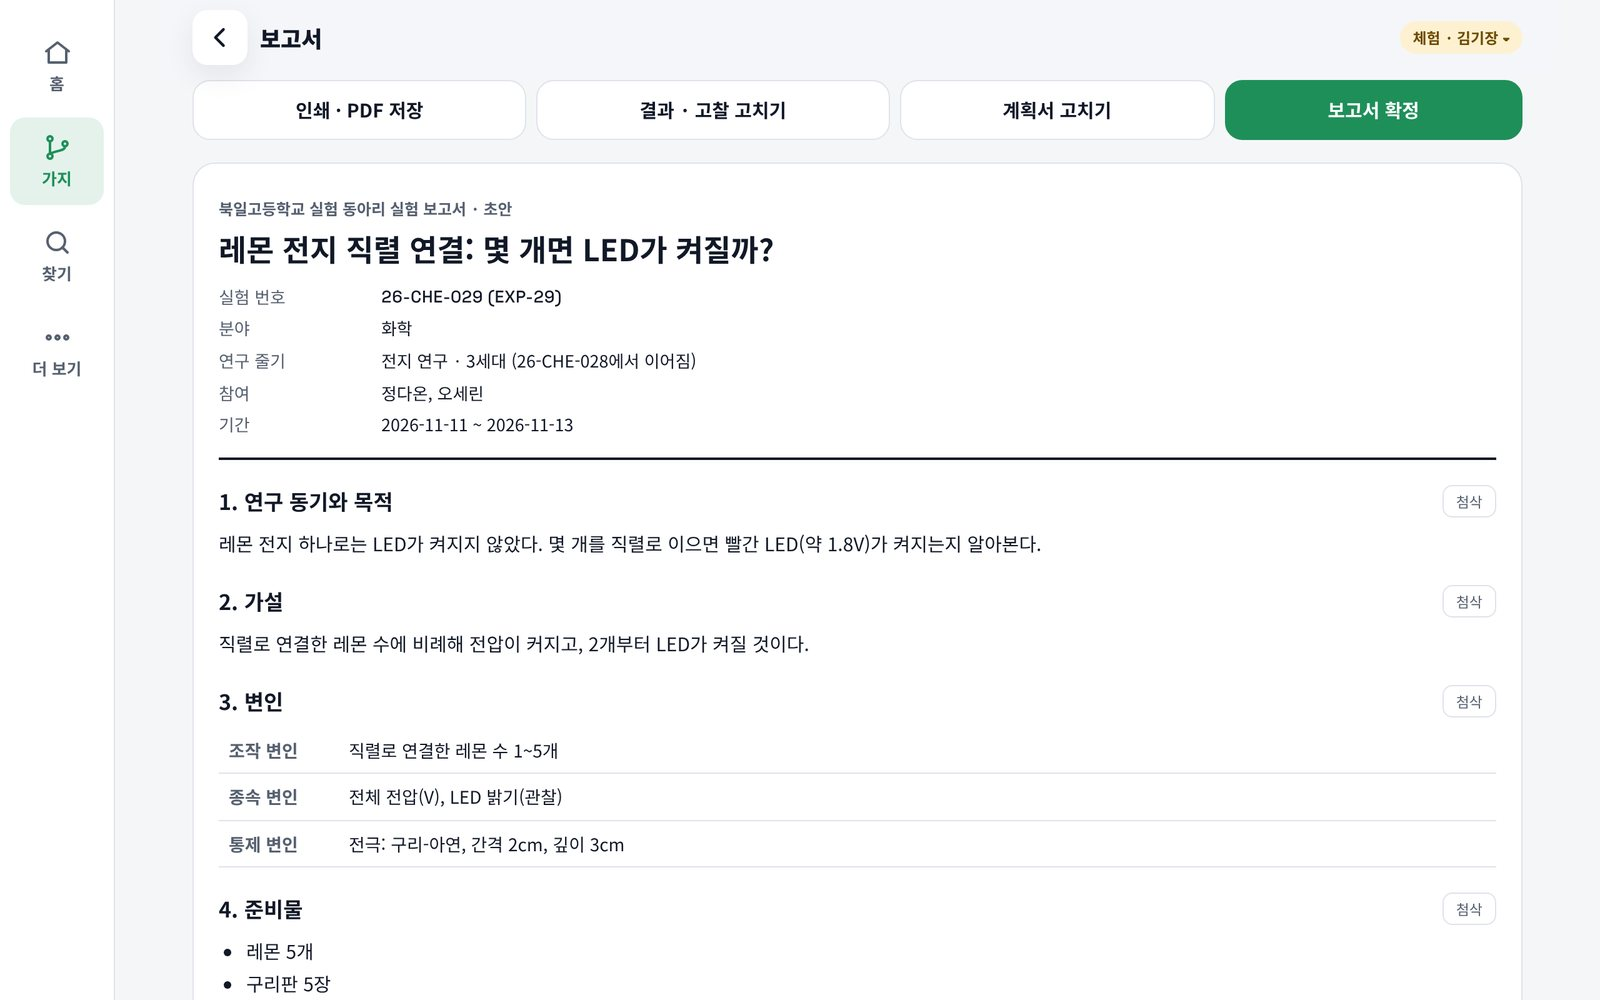
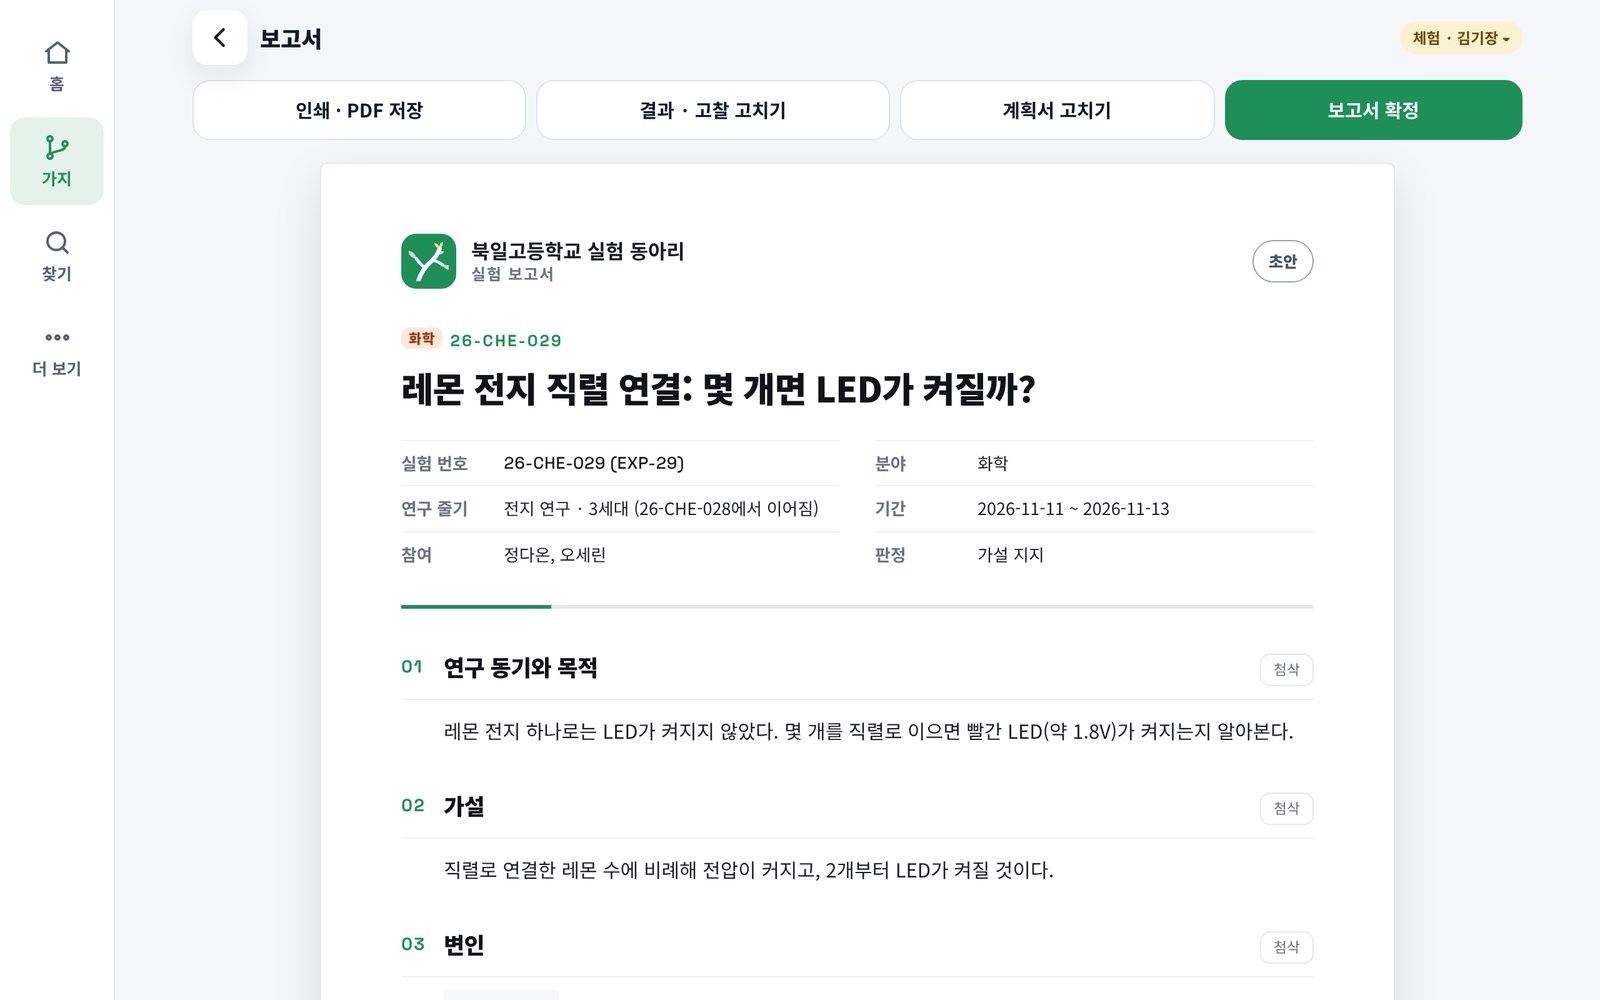
가지: 전체 가지 · 3D 전체 지도 · 명예의 전당 · 새 보고서 양식
Claude-Session: https://claude.ai/code/session_01ShCSMFwDxhqcMjTsEDc35E

diff --git a/public/apps/gaji/index.html b/public/apps/gaji/index.html
@@ -382,8 +382,8 @@ h1,h2,h3,.hero h1,.sec-head h2,.about h2,.process h2,.reeltxt h2,.contact h2,.bo
      
      
      <h4>★ 대표 기능</h4>
-     <div class="flag"><div><em>01</em><b>실험의 가지(계보)</b><span>실험을 열면 이 실험이 어디서 시작해 어디로 이어졌는지 세로 가지로 보입니다. 같은 주제의 실험은 연구 줄기로 묶여 몇 세대에 걸친 연구가 한 카드에 모입니다.</span></div><div><em>02</em><b>계획서에서 보고서까지 한 줄기</b><span>계획서 → 교차 검토 → 선생님 승인 → 준비 → 실험 → 결과 기록 → 보고서 → 다음 실험. 계획서 없이는 검토를 요청할 수 없고, 결과 · 결론 없이는 기록 완료가 되지 않습니다.</span></div><div><em>03</em><b>측정값을 넣으면 그래프와 보고서</b><span>측정 방식 5가지(조건별 반복 · 시간에 따른 변화 · 두 값의 관계 · 자유 표 · 관찰 기록)에 맞춰 평균 · 표준편차 막대, 꺾은선, 산점도 · 추세선 · R²가 저절로 그려지고, 모든 기록이 보고서 한 편으로 묶여 인쇄 · PDF로 나옵니다.</span></div><div><em>04</em><b>교차 검토와 선생님 승인</b><span>다른 팀 부원이 계획서를 읽고 승인하거나 고칠 곳을 첨삭으로 남깁니다. 몇 명이 승인할지, 지도 선생님 최종 승인이 필요한지는 동아리마다 정합니다. 함께하는 사람은 승인할 수 없습니다.</span></div><div><em>05</em><b>기록은 동아리 드라이브에만</b><span>실험 데이터는 동아리 구글 드라이브의 시트와 폴더에만 저장되어 제작자도 볼 수 없습니다. 바뀐 것이 있으면 일주일에 한 번 저절로 백업하고, 실수하면 백업에서 되살립니다.</span></div></div>
-     <h4>▣ 미리보기</h4><div class="gal wide "><figure><a href="/gallery/gaji-lines.jpg" target="_blank" rel="noopener"><img src="/gallery/gaji-lines.jpg" alt="가지 연구 줄기 — 전지 연구 15개 실험이 5세대에 걸쳐 가지를 친 모습 (점선은 아직 안 한 실험)" loading="lazy"></a><figcaption>연구 줄기 — 전지 연구 15개 실험이 5세대에 걸쳐 가지를 친 모습 (점선은 아직 안 한 실험)</figcaption></figure><figure><a href="/gallery/gaji-item.jpg" target="_blank" rel="noopener"><img src="/gallery/gaji-item.jpg" alt="가지 실험 상세 — 계획 · 검토 · 준비 · 기록 · 보고서 단계와 이 실험의 가지" loading="lazy"></a><figcaption>실험 상세 — 계획 · 검토 · 준비 · 기록 · 보고서 단계와 이 실험의 가지</figcaption></figure><figure><a href="/gallery/gaji-report.jpg" target="_blank" rel="noopener"><img src="/gallery/gaji-report.jpg" alt="가지 자동 보고서 — 동기와 목적, 가설, 변인, 준비물이 보고서 한 편으로 (인쇄 · PDF 저장)" loading="lazy"></a><figcaption>자동 보고서 — 동기와 목적, 가설, 변인, 준비물이 보고서 한 편으로 (인쇄 · PDF 저장)</figcaption></figure></div>
+     <div class="flag"><div><em>01</em><b>실험의 가지(계보)와 전체 가지</b><span>실험을 열면 이 실험이 어디서 시작해 어디로 이어졌는지 세로 가지로 보입니다. '전체 가지'는 달을 가로로 놓고 연구 줄기마다 실험이 날짜 자리에서 가지를 치는 타임라인으로, 동아리 연구 전체를 끌어서 훑어봅니다.</span></div><div><em>02</em><b>3D 전체 지도</b><span>동아리 연구 전체를 분야마다 별무리처럼 모인 3D 지도로 봅니다. 끌어서 돌리고 확대하며, 별을 한 번 누르면 요약, 두 번 누르면 상세로 들어갑니다. 발표 때 쓰기 좋습니다.</span></div><div><em>03</em><b>명예의 전당</b><span>쌓인 기록에서 가장 많이 가지를 뻗은 실험, 가장 긴 가지, 최장기 실험, 실패가 낳은 발견, 가장 뜨거운 토론, 연구왕을 저절로 뽑아 홈에 보여 줍니다.</span></div><div><em>04</em><b>계획서에서 보고서까지 한 줄기</b><span>계획서 → 교차 검토 → 선생님 승인 → 준비 → 실험 → 결과 기록 → 보고서 → 다음 실험. 계획서 없이는 검토를 요청할 수 없고, 결과 · 결론 없이는 기록 완료가 되지 않습니다.</span></div><div><em>05</em><b>측정값을 넣으면 그래프와 보고서</b><span>측정 방식 5가지(조건별 반복 · 시간에 따른 변화 · 두 값의 관계 · 자유 표 · 관찰 기록)에 맞춰 평균 · 표준편차 막대, 꺾은선, 산점도 · 추세선 · R²가 저절로 그려지고, 모든 기록이 보고서 한 편으로 묶여 인쇄 · PDF로 나옵니다.</span></div><div><em>06</em><b>교차 검토와 선생님 승인</b><span>다른 팀 부원이 계획서를 읽고 승인하거나 고칠 곳을 첨삭으로 남깁니다. 몇 명이 승인할지, 지도 선생님 최종 승인이 필요한지는 동아리마다 정합니다. 함께하는 사람은 승인할 수 없습니다.</span></div><div><em>07</em><b>기록은 동아리 드라이브에만</b><span>실험 데이터는 동아리 구글 드라이브의 시트와 폴더에만 저장되어 제작자도 볼 수 없습니다. 바뀐 것이 있으면 일주일에 한 번 저절로 백업하고, 실수하면 백업에서 되살립니다.</span></div></div>
+     <h4>▣ 미리보기</h4><div class="gal wide "><figure><a href="/gallery/gaji-all.jpg" target="_blank" rel="noopener"><img src="/gallery/gaji-all.jpg" alt="가지 전체 가지 — 달을 가로로 놓은 타임라인에서 연구 줄기마다 실험이 가지를 칩니다 (빨간 선은 오늘, 점선은 아직 안 한 실험)" loading="lazy"></a><figcaption>전체 가지 — 달을 가로로 놓은 타임라인에서 연구 줄기마다 실험이 가지를 칩니다 (빨간 선은 오늘, 점선은 아직 안 한 실험)</figcaption></figure><figure><a href="/gallery/gaji-map3d.jpg" target="_blank" rel="noopener"><img src="/gallery/gaji-map3d.jpg" alt="가지 3D 전체 지도 — 분야마다 별무리처럼 모인 동아리 연구 전체. 끌어서 돌리고 확대합니다" loading="lazy"></a><figcaption>3D 전체 지도 — 분야마다 별무리처럼 모인 동아리 연구 전체. 끌어서 돌리고 확대합니다</figcaption></figure><figure><a href="/gallery/gaji-hall.jpg" target="_blank" rel="noopener"><img src="/gallery/gaji-hall.jpg" alt="가지 명예의 전당 — 가장 많이 가지를 뻗은 실험 · 가장 긴 가지 · 최장기 실험 · 실패가 낳은 발견을 기록에서 저절로 뽑습니다" loading="lazy"></a><figcaption>명예의 전당 — 가장 많이 가지를 뻗은 실험 · 가장 긴 가지 · 최장기 실험 · 실패가 낳은 발견을 기록에서 저절로 뽑습니다</figcaption></figure><figure><a href="/gallery/gaji-lines.jpg" target="_blank" rel="noopener"><img src="/gallery/gaji-lines.jpg" alt="가지 연구 줄기 — 전지 연구 15개 실험이 5세대에 걸쳐 가지를 친 모습 (점선은 아직 안 한 실험)" loading="lazy"></a><figcaption>연구 줄기 — 전지 연구 15개 실험이 5세대에 걸쳐 가지를 친 모습 (점선은 아직 안 한 실험)</figcaption></figure><figure><a href="/gallery/gaji-item.jpg" target="_blank" rel="noopener"><img src="/gallery/gaji-item.jpg" alt="가지 실험 상세 — 계획 · 검토 · 준비 · 기록 · 보고서 단계와 이 실험의 가지" loading="lazy"></a><figcaption>실험 상세 — 계획 · 검토 · 준비 · 기록 · 보고서 단계와 이 실험의 가지</figcaption></figure><figure><a href="/gallery/gaji-report.jpg" target="_blank" rel="noopener"><img src="/gallery/gaji-report.jpg" alt="가지 자동 보고서 — 동아리 로고와 분야 뱃지, 번호 붙은 항목마다 첨삭. A4로 인쇄 · PDF 저장" loading="lazy"></a><figcaption>자동 보고서 — 동아리 로고와 분야 뱃지, 번호 붙은 항목마다 첨삭. A4로 인쇄 · PDF 저장</figcaption></figure></div>
      <h4>◆ 처음부터 끝까지, 빠짐없는 구성</h4>
      <div class="stages"><details class="stg" open>
        <summary><i>1</i><div><b>계획과 검토</b><span>실험을 시작하기 전에</span></div><small>5</small></summary>
@@ -393,7 +393,7 @@ h1,h2,h3,.hero h1,.sec-head h2,.about h2,.process h2,.reeltxt h2,.contact h2,.bo
        <div class="feats"><div class="feat"><b>준비 점검</b><span>준비물 · 실험 장소와 시간 · 안전 장비 · 역할 나누기 · 선생님께 알리기를 하나씩 체크합니다.</span></div><div class="feat"><b>진행 도우미</b><span>실험 단계마다 체크하고 메모와 사진을 남깁니다.</span></div><div class="feat"><b>내가 할 일</b><span>홈에 지금 챙길 실험과 검토 요청, 동아리가 챙길 것이 모입니다.</span></div></div>
      </details><details class="stg" >
        <summary><i>3</i><div><b>결과와 보고서</b><span>기록이 보고서가 되기까지</span></div><small>4</small></summary>
-       <div class="feats"><div class="feat"><b>측정 방식 5가지</b><span>조건별 반복, 시간에 따른 변화, 두 값의 관계, 자유 표, 관찰 기록 중에서 고르면 맞는 표와 그래프가 나옵니다.</span></div><div class="feat"><b>결론과 다음 가지</b><span>가설 지지 · 기각 · 추가 실험 필요로 결론을 내고, 결과에서 나온 질문을 새 가지로 잇습니다.</span></div><div class="feat"><b>자동 보고서</b><span>계획서와 결과가 보고서 한 편으로 묶이고, 첨삭을 받아 고친 뒤 관리자가 확정합니다. 인쇄 · PDF 저장.</span></div><div class="feat"><b>찾기</b><span>제목 · 번호(예: 26-CHE-029) · 내용 · 사람 · 연도 · 분야 · 단계로 선배의 실험을 찾습니다.</span></div></div>
+       <div class="feats"><div class="feat"><b>측정 방식 5가지</b><span>조건별 반복, 시간에 따른 변화, 두 값의 관계, 자유 표, 관찰 기록 중에서 고르면 맞는 표와 그래프가 나옵니다.</span></div><div class="feat"><b>결론과 다음 가지</b><span>가설 지지 · 기각 · 추가 실험 필요로 결론을 내고, 결과에서 나온 질문을 새 가지로 잇습니다.</span></div><div class="feat"><b>자동 보고서</b><span>계획서와 결과가 동아리 로고와 표지, 작성 · 검토 · 승인 · 확정 칸이 있는 A4 보고서 한 편으로 묶입니다. 첨삭을 받아 고친 뒤 관리자가 확정하고, 인쇄 · PDF로 저장합니다.</span></div><div class="feat"><b>찾기</b><span>제목 · 번호(예: 26-CHE-029) · 내용 · 사람 · 연도 · 분야 · 단계로 선배의 실험을 찾습니다.</span></div></div>
      </details><details class="stg" >
        <summary><i>4</i><div><b>동아리 운영</b><span>마스터 · 관리자</span></div><small>4</small></summary>
        <div class="feats"><div class="feat"><b>동아리 전용 주소</b><span>동아리마다 /c/동아리주소 로 들어오고, 이름 · 로고 · 동아리 색 두 가지를 정합니다.</span></div><div class="feat"><b>학번 + 개인 코드</b><span>부원은 구글 로그인 없이 학번과 개인 코드로 쓰고, 새 기기는 카톡으로 승인을 요청하면 기장이 승인합니다.</span></div><div class="feat"><b>자동 백업 · 되살리기</b><span>주 1회 드라이브 '가지 백업' 폴더에 시트 사본과 엑셀을 남기고 한 주 요약 메일을 보냅니다.</span></div><div class="feat"><b>마스터 넘기기</b><span>24시간 동안만 쓰는 일회용 링크로 다음 마스터에게 넘깁니다.</span></div></div>

diff --git a/public/data.js b/public/data.js
@@ -4392,9 +4392,17 @@ window.PROJECTS=[
   "overview": "가지는 고등학교 실험 동아리를 위한 연구 관리 도구입니다. 한 번 하고 끝나는 실험이 아니라, 결과에서 나온 질문이 다음 실험으로 이어지도록 계획서 · 검토 · 준비 · 실험 · 결과 · 보고서를 한 줄기로 기록합니다. 실험을 열면 그 실험이 어디서 시작해 어디로 이어졌는지 '가지'(계보)가 항상 보이고, 같은 주제의 실험은 연구 줄기로 묶여 몇 세대에 걸친 연구가 한눈에 들어옵니다. 계획서는 다른 부원의 교차 검토와 지도 선생님 승인을 거쳐야 준비로 넘어가고, 측정값을 넣으면 그래프와 보고서가 저절로 만들어져 인쇄하거나 PDF로 저장합니다. 실험 기록은 가지 서버가 아니라 각 동아리의 구글 드라이브에만 저장되어 제작자도 볼 수 없고, 서버 비용 없이 운영됩니다. 부원은 학번과 개인 코드로 쓰고, 처음 쓰는 기기는 기장이나 선생님이 승인해야 들어올 수 있습니다. 지금은 예시 동아리로 누구나 체험해 볼 수 있습니다.",
   "flagship": [
    {
-    "title": "실험의 가지(계보)",
-    "desc": "실험을 열면 이 실험이 어디서 시작해 어디로 이어졌는지 세로 가지로 보입니다. 같은 주제의 실험은 연구 줄기로 묶여 몇 세대에 걸친 연구가 한 카드에 모입니다.",
+    "title": "실험의 가지(계보)와 전체 가지",
+    "desc": "실험을 열면 이 실험이 어디서 시작해 어디로 이어졌는지 세로 가지로 보입니다. '전체 가지'는 달을 가로로 놓고 연구 줄기마다 실험이 날짜 자리에서 가지를 치는 타임라인으로, 동아리 연구 전체를 끌어서 훑어봅니다.",
     "hot": true
+   },
+   {
+    "title": "3D 전체 지도",
+    "desc": "동아리 연구 전체를 분야마다 별무리처럼 모인 3D 지도로 봅니다. 끌어서 돌리고 확대하며, 별을 한 번 누르면 요약, 두 번 누르면 상세로 들어갑니다. 발표 때 쓰기 좋습니다."
+   },
+   {
+    "title": "명예의 전당",
+    "desc": "쌓인 기록에서 가장 많이 가지를 뻗은 실험, 가장 긴 가지, 최장기 실험, 실패가 낳은 발견, 가장 뜨거운 토론, 연구왕을 저절로 뽑아 홈에 보여 줍니다."
    },
    {
     "title": "계획서에서 보고서까지 한 줄기",
@@ -4472,7 +4480,7 @@ window.PROJECTS=[
      },
      {
       "title": "자동 보고서",
-      "desc": "계획서와 결과가 보고서 한 편으로 묶이고, 첨삭을 받아 고친 뒤 관리자가 확정합니다. 인쇄 · PDF 저장."
+      "desc": "계획서와 결과가 동아리 로고와 표지, 작성 · 검토 · 승인 · 확정 칸이 있는 A4 보고서 한 편으로 묶입니다. 첨삭을 받아 고친 뒤 관리자가 확정하고, 인쇄 · PDF로 저장합니다."
      },
      {
       "title": "찾기",
@@ -4556,6 +4564,18 @@ window.PROJECTS=[
   "galleryWide": true,
   "gallery": [
    {
+    "src": "gallery/gaji-all.jpg",
+    "cap": "전체 가지 — 달을 가로로 놓은 타임라인에서 연구 줄기마다 실험이 가지를 칩니다 (빨간 선은 오늘, 점선은 아직 안 한 실험)"
+   },
+   {
+    "src": "gallery/gaji-map3d.jpg",
+    "cap": "3D 전체 지도 — 분야마다 별무리처럼 모인 동아리 연구 전체. 끌어서 돌리고 확대합니다"
+   },
+   {
+    "src": "gallery/gaji-hall.jpg",
+    "cap": "명예의 전당 — 가장 많이 가지를 뻗은 실험 · 가장 긴 가지 · 최장기 실험 · 실패가 낳은 발견을 기록에서 저절로 뽑습니다"
+   },
+   {
     "src": "gallery/gaji-lines.jpg",
     "cap": "연구 줄기 — 전지 연구 15개 실험이 5세대에 걸쳐 가지를 친 모습 (점선은 아직 안 한 실험)"
    },
@@ -4565,7 +4585,7 @@ window.PROJECTS=[
    },
    {
     "src": "gallery/gaji-report.jpg",
-    "cap": "자동 보고서 — 동기와 목적, 가설, 변인, 준비물이 보고서 한 편으로 (인쇄 · PDF 저장)"
+    "cap": "자동 보고서 — 동아리 로고와 분야 뱃지, 번호 붙은 항목마다 첨삭. A4로 인쇄 · PDF 저장"
    }
   ],
   "supports": [
